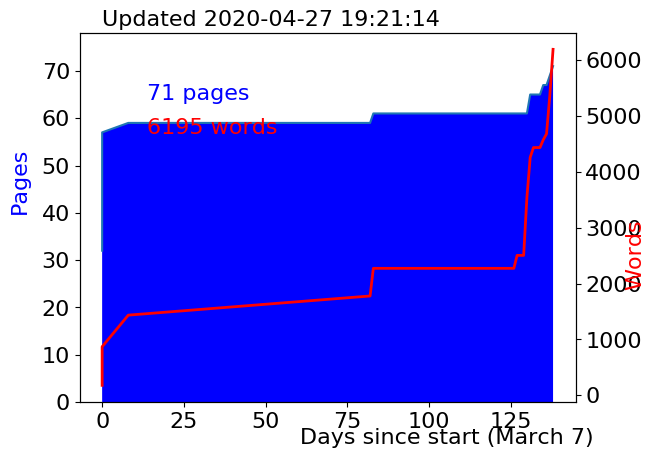
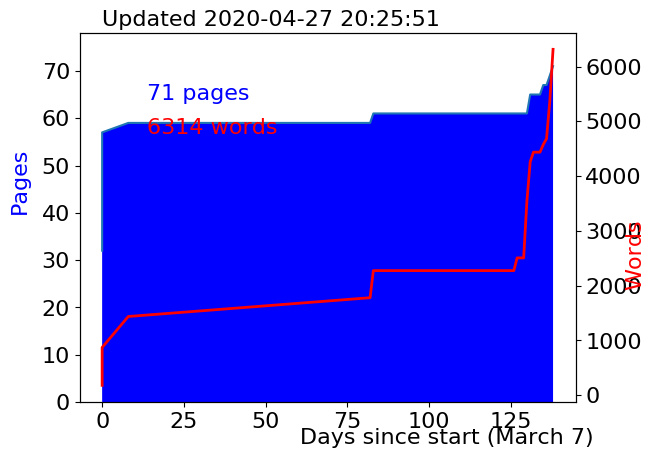
finishing out pileup discussion

diff --git a/Chapters/Accelerators.tex b/Chapters/Accelerators.tex
@@ -88,4 +88,16 @@ While high instantaneous luminosity enables the fast accumulation of data requir
 \label{fig:pileup}
 \end{figure}
 
+In practice, pileup collisions are generally lower energy, \ac{qcd}-only interactions, producing sprays of low energy activity in the \ac{ID} and calorimeters and possibly creating fake tracks, clusters, or adding energy to non-pileup detector signatures.  Pileup can be mitigated by reconstructing all of the vertices in the event and removing detector signatures associated to non-primary vertices. An example of an event with 25 simultaneous collisions can be see in \autoref{fig:pileup}. The tracks from the target event are the yellow lines, however there are many other tracks to confuse the situation.
+
+
+\begin{figure}[htbp]
+\centering
+\includegraphics[width=.8\textwidth]{figures/Detector/lhc-pileup-eventdisplay.png}
+\caption{An event display with 25 simultaneous interactions. The primary interaction is in yellow, but the pileup-dense environment makes it hard to see that event among all of the other activity.}
+\label{fig:pileup}
+\end{figure}
+
+
+
 

diff --git a/scripts/pages.md b/scripts/pages.md
@@ -130,3 +130,4 @@
 + [2020-04-27-18h36m57s] 71 6111
 + [2020-04-27-18h37m29s] 71 6111
 + [2020-04-27-19h21m14s] 71 6195
++ [2020-04-27-20h25m51s] 71 6314
